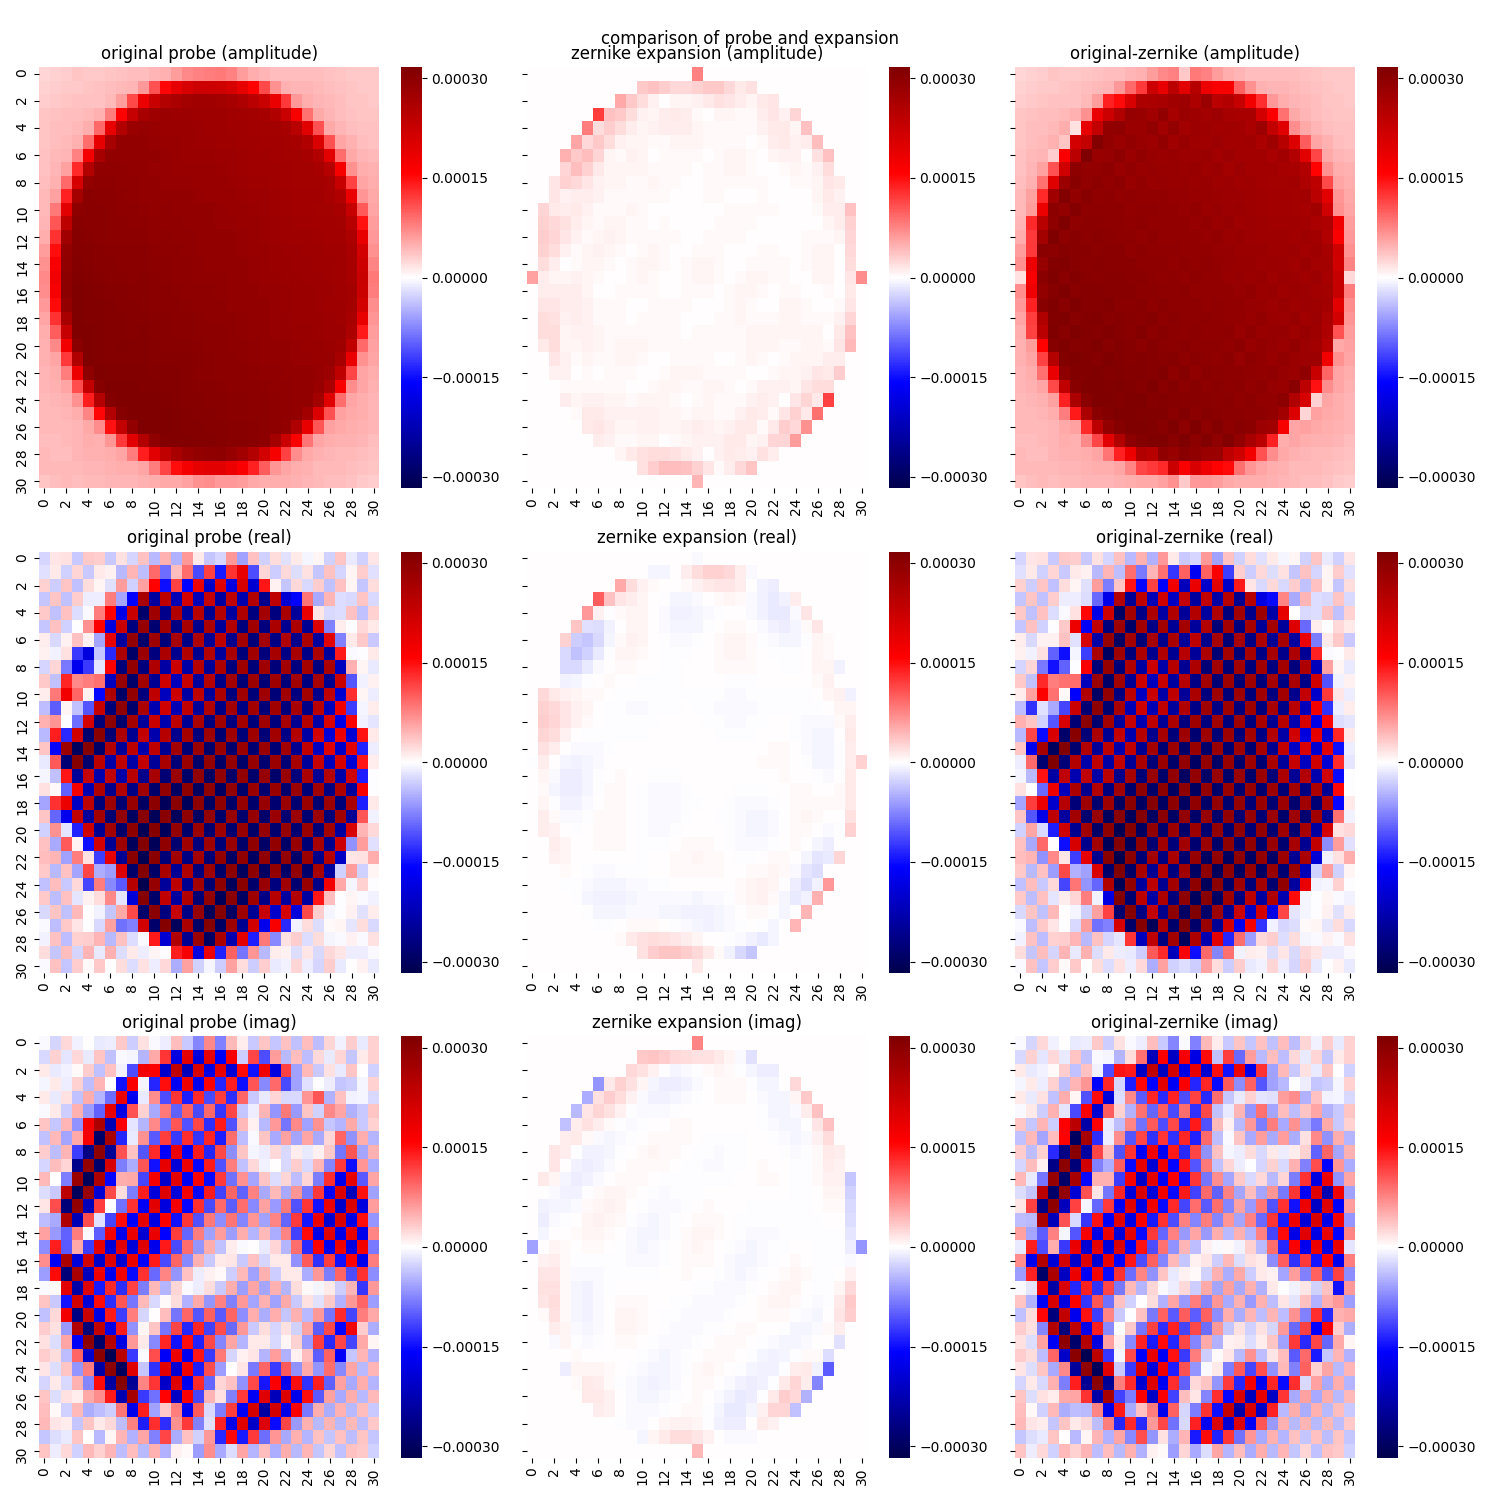
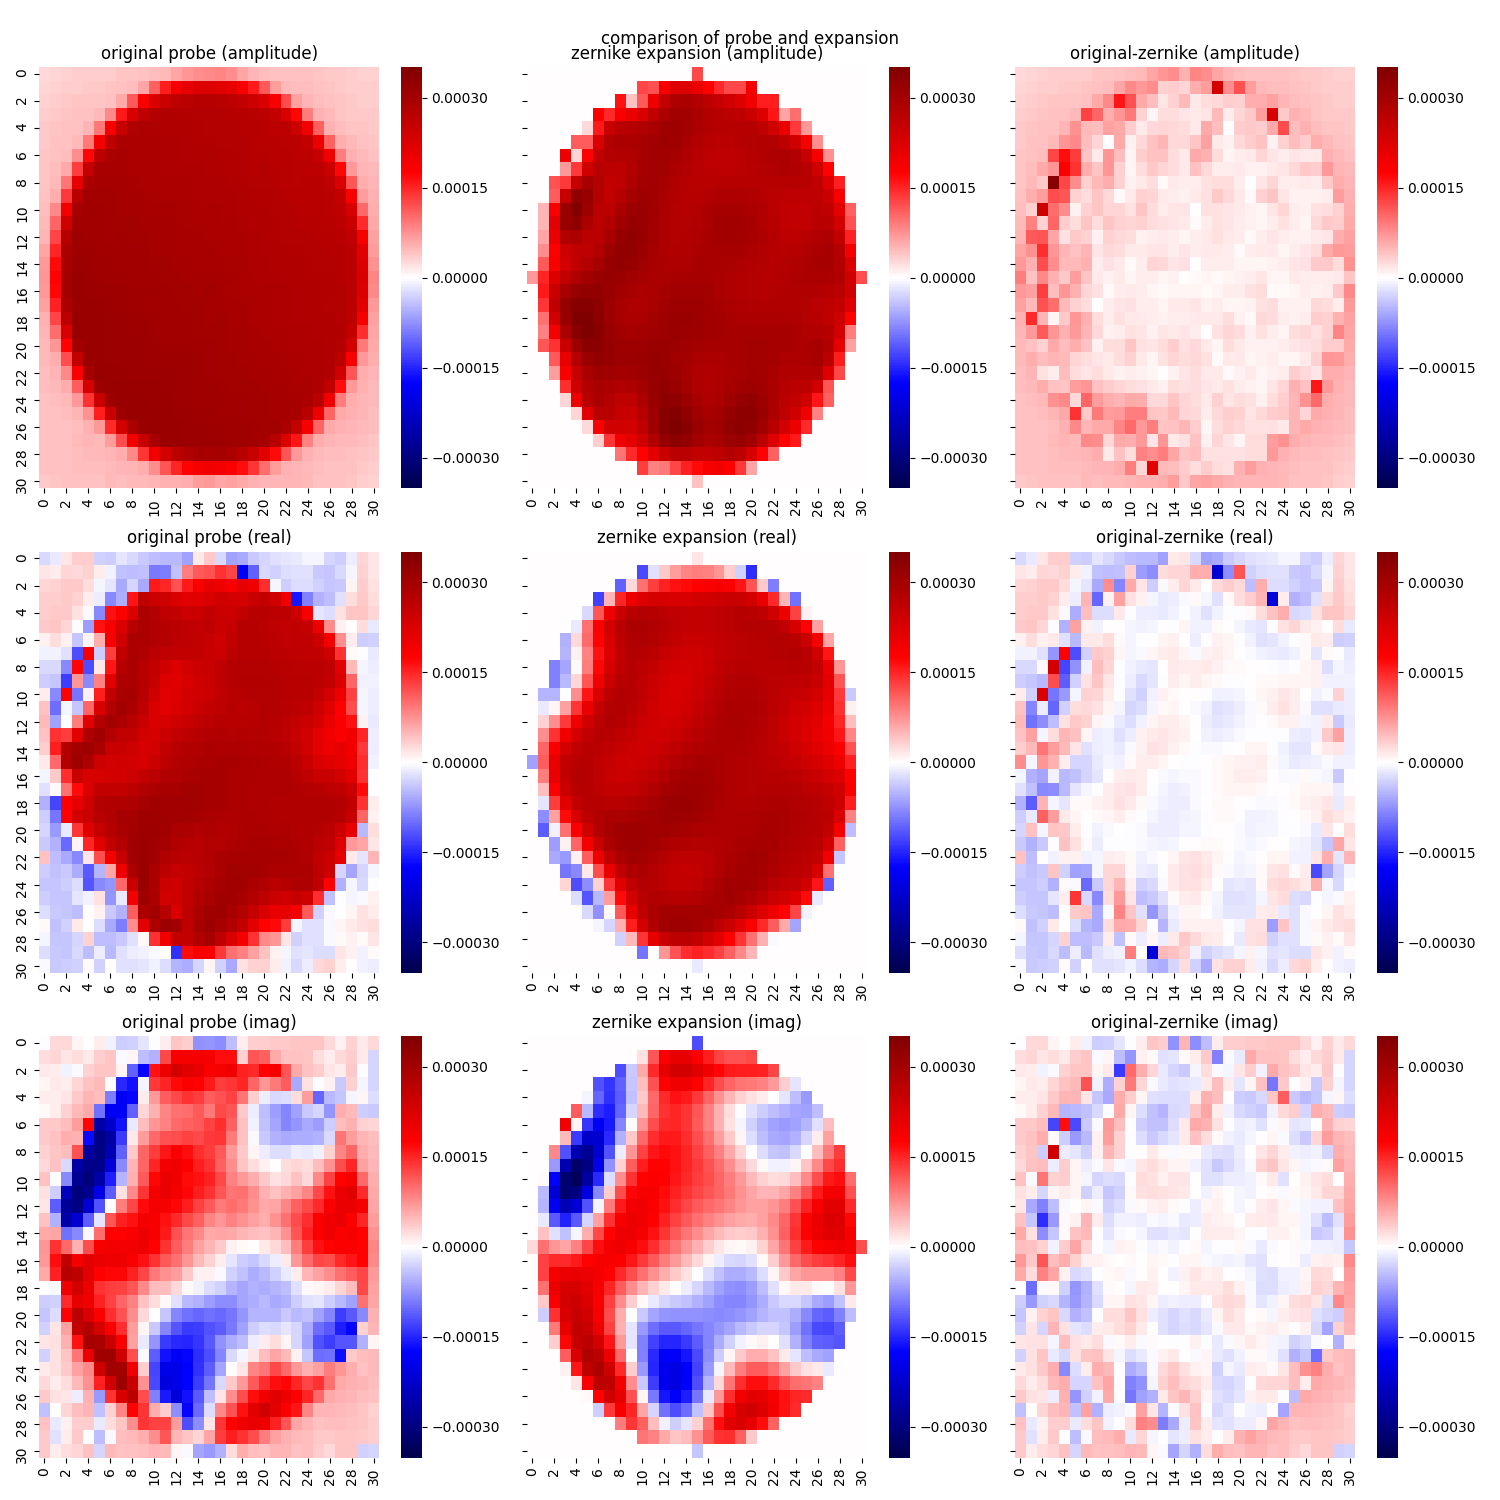
fixed checkers, added accuracy visualisation

diff --git a/probe.py b/probe.py
@@ -9,17 +9,18 @@ from zernike import CZern # 0.0.31
 #callable attributes: sample (original), ft_sample (fourier transformed),
 #	probe (cutout of ft_sample), max_index (boardes of probe),
 #	nonzero (ft_sample low values set to zero)
-#	cart (zernike czern object), coeffs 8order list of zernike coeffs
+#	cart (zernike czern object), coeffs (ordered list of zernike coeffs)
 #methods: init (zernike expansion), plot (probe vs expansion),
-#	coeff_N (returns coeffs of order N)
+#	coeff_N (returns coeffs of order N), zernike (returns (n,m) polynomial
+# 	weighted with fitted coefficient), visual_coeff (visualises coeffs)
 class Probe:
 	#initialise probe object by calculating its zernike coefficients
 	def __init__(self, sample, N="auto", tolerance="auto"):
-		self.sample=sample
+		self.sample=np.fft.fftshift(sample)
 		LEN=sample.shape[0]
 
 		#transform sample to dual space
-		self.ift_sample=np.fft.fftshift(np.fft.ifft2(sample))
+		self.ift_sample=np.fft.ifftshift(np.fft.ifft2(self.sample))
 
 		#auto tolerance
 		if tolerance=="auto":
@@ -54,7 +55,7 @@ class Probe:
 		#expand sample using Zernike polynomials with radius k_max
 		#up to radial order N
 		if N=="auto":
-			N=4*N
+			N=int(probe.shape[0]//2)
 		self.N=N
 
 		#create CZern object for zernike polynomials
@@ -71,21 +72,16 @@ class Probe:
 		#other returns from fit_cart_grid: residuals, rank,
 		# singular values (see numpy lstsq)
 
-		#calculate coefficients explicitly
-		#coeffs=[]
-		#for n in range(N+1):
-		#	for m in range(n+1):
-		#		coeffs.append(np.sum(self.probe*self.Zernike(n,m)))
-		#self.coeffs=np.array(coeffs)
+		#save fitted zernike polynomial
+		self.fit=self.cart.eval_grid(self.coeffs, matrix=True)
 
 	#plot probe vs fit
 	def plot(self, save=False):
+		#replace nan in fit with 0
+		fit=np.nan_to_num(self.fit, nan=0)
+
 		fig, ((ax1,ax2,ax3),(ax4,ax5,ax6),(ax7,ax8,ax9))=plt.subplots(3,3,
 			sharey=True,figsize=(15,15))		
-
-		#fitted zernike polynomial
-		fit=self.cart.eval_grid(self.coeffs, matrix=True)
-		fit=np.nan_to_num(fit, nan=0)
 
 		#define norms for all subplots
 		ALL=np.abs([np.abs(self.probe),np.abs(fit),self.probe.real,
@@ -139,20 +135,66 @@ class Probe:
 
 	#needed for explicit calculation
 	#returns zernike polynomial n,m in shape of probe
-	def Zernike(self,n,m):
-		cart=CZern(n)
-		L,K=self.probe.shape
-		ddx=np.linspace(-1,1,K)
-		ddy=np.linspace(-1,1,L)
-		xv,yv=np.meshgrid(ddx,ddy)
-		cart.make_cart_grid(xv,yv)
+	# n>=0, 0<=m<=n
+	def zernike(self,n,m):
+		#make sure valid n and m are provided
+		if n>self.N:
+			n=self.N
+			print(f"n can't be larger than N, setting n={self.N}")
+		if m>n:
+			m=n
+			print(f"m can't be larger than n, setting m={n}")
 
-		coeffs=np.zeros(int((n+1)*(n+2)/2))
-		coeffs[int(n*(n+1)/2)+m]=1
-		poly=cart.eval_grid(coeffs, matrix=True)
+		#create coeff array with the corresponding coeff from fit
+		coeffs=np.zeros(len(self.coeffs),dtype="complex")
+		coeffs[int(n*(n+1)/2)+m]=self.coeffs[int(n*(n+1)/2)+m]
+
+		#make polynomial matrix
+		poly=self.cart.eval_grid(coeffs, matrix=True)
 		
 		return np.nan_to_num(poly, nan=0)
 
+	def visual_coeff(self):
+		plt.style.use("seaborn")
+		fig, (ax1,ax2,ax3)=plt.subplots(3,1, sharey=True,sharex=True)
+		ax1.scatter(range(len(self.coeffs)),self.coeffs.real)
+		ax2.scatter(range(len(self.coeffs)),self.coeffs.imag)
+		ax3.scatter(range(len(self.coeffs)),np.abs(self.coeffs))
+
+		ax1.set_ylabel("real part")		
+		ax2.set_ylabel("imaginary part")
+		ax3.set_xlabel("# of coefficient")
+		ax3.set_ylabel("absolute")
+
+		fig.tight_layout()
+		plt.savefig("coefficients.png")
+
+#test accuracy of fit for different orders
+def test_fit(sample,end,tolerance="auto"):
+	sdiff=[]
+	all_coeff=[]
+	#fit for various N and collect square difference
+	for i in range(end):
+		#fit up to order i
+		p=Probe(sample, N=i, tolerance=tolerance)
+
+		#square difference: absolute square of the difference between
+		# fit and sample (within zernike radius)
+		square_difference=np.absolute(p.fit-p.probe)**2
+		square_difference=np.nan_to_num(square_difference, nan=0)
+
+		#collect square difference and coefficients
+		sdiff.append(np.sum(square_difference))
+		all_coeff.append(p.coeffs)
+
+	#plot square deviation
+	plt.style.use("seaborn")
+	fig,ax=plt.subplots(1,1)
+	ax.scatter(range(end),sdiff)
+	ax.set_xlabel("number of polynomials")
+	ax.set_ylabel("square deviation")
+	plt.savefig("test_accuracy.png")
+	plt.close()
 
 if __name__=="__main__":
 
@@ -162,8 +204,11 @@ if __name__=="__main__":
 		sample=pkl.load(file)
 	probe_complex=sample["probe_re"]+1j*sample["probe_im"]
 	
-	N=50
-	probe=Probe(probe_complex,N)
-	probe.plot("save")	
+	#fit and plot expansion for sample
+	#probe=Probe(probe_complex)
+	#probe.visual_coeff()
+	#probe.plot("save")
 
-	#print(probe.coeffs)
+	#test accuracy for different numbers of polynomials
+	# for sample
+	#test_fit(probe_complex,50)
